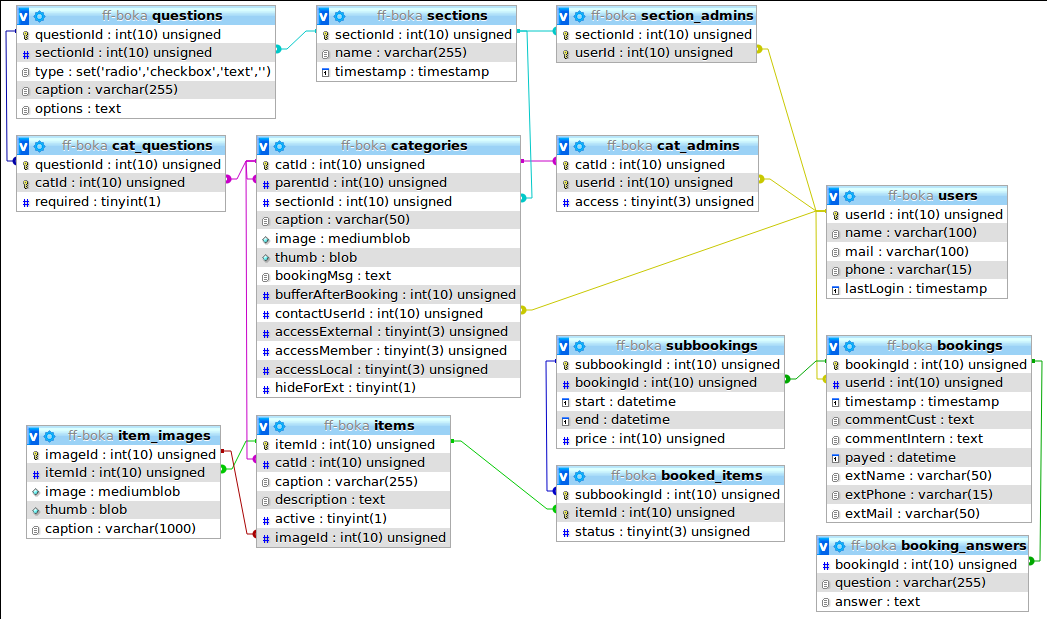
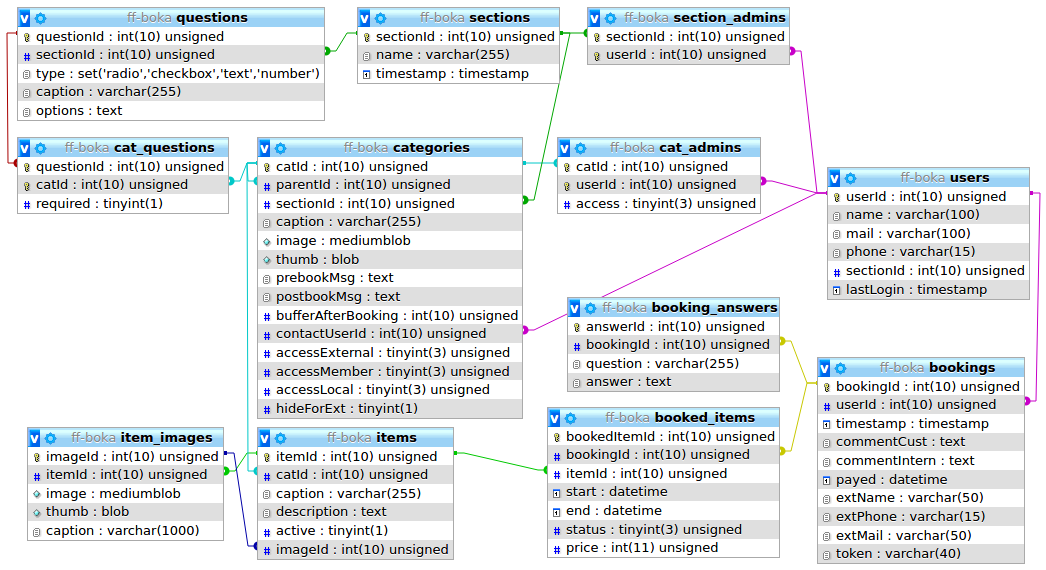
Remove class subbooking, integrate same functionality in bookeditem and booking

diff --git a/inc/ffboka/bookeditem.php b/inc/ffboka/bookeditem.php
@@ -14,9 +14,9 @@ use PDO;
  */
 class BookedItem extends Item {
     /** The ID of the item's booking (not to be confused with the item ID) */
-    public $bookedItemId;
-    /** The ID of the subbooking the item belongs to */
-    public $subbookingId;
+    private $bookedItemId;
+    /** The ID of the booking the item belongs to */
+    private $bookingId;
     
     /**
      * Initialize bookedItem with ID and get some static properties.
@@ -25,11 +25,11 @@ class BookedItem extends Item {
      */
     public function __construct($bookedItemId){
         if ($bookedItemId) { // Try to return an existing item from database
-            $stmt = self::$db->prepare("SELECT bookedItemId, subbookingId, itemId, catId FROM booked_items INNER JOIN items USING (itemId) WHERE bookedItemId=?");
+            $stmt = self::$db->prepare("SELECT bookedItemId, bookingId, itemId, catId FROM booked_items INNER JOIN items USING (itemId) WHERE bookedItemId=?");
             $stmt->execute(array($bookedItemId));
             if ($row = $stmt->fetch(PDO::FETCH_OBJ)) {
                 $this->bookedItemId = $row->bookedItemId;
-                $this->subbookingId = $row->subbookingId;
+                $this->bookingId = $row->bookingId;
                 $this->id = $row->itemId;
                 $this->catId = $row->catId;
             } else {
@@ -41,25 +41,59 @@ class BookedItem extends Item {
     }
 
     /**
+     * Get booking start time of item
+     * @return int Unix timestamp of start time
+     */
+    public function start() {
+        $stmt = self::$db->query("SELECT UNIX_TIMESTAMP(start) start FROM booked_items WHERE bookedItemId={$this->bookedItemId}");
+        $row = $stmt->fetch(PDO::FETCH_OBJ);
+        return $row->start;
+    }
+
+    /**
+     * Set the booking start time of the item
+     * @param int|string $start Start time as Unix timestamp or string
+     * @return int|bool Unix timestamp of start time, or false on failure
+     */
+    public function setStart($start) {
+        if (is_numeric($start)) $stmt = self::$db->prepare("UPDATE booked_items SET start=FROM_UNIXTIME(?) WHERE bookedItemId={$this->bookedItemId}");
+        else $stmt = self::$db->prepare("UPDATE booked_items SET start=? WHERE bookedItemId={$this->bookedItemId}");
+        if ($stmt->execute(array($start))) return $this->start();
+        else return FALSE;
+    }
+    
+    /**
+     * Set the booking end time of the item
+     * @param int|string $end End time as Unix timestamp or string
+     * @return int|bool Unix timestamp of end time, or false on failure
+     */
+    public function setEnd($end) {
+        if (is_numeric($end)) $stmt = self::$db->prepare("UPDATE booked_items SET end=FROM_UNIXTIME(?) WHERE bookedItemId={$this->bookedItemId}");
+        else $stmt = self::$db->prepare("UPDATE booked_items SET end=? WHERE bookedItemId={$this->bookedItemId}");
+        if ($stmt->execute(array($end))) return $this->end();
+        else return FALSE;
+    }
+    
+    /**
+     * Get booking end time of item
+     * @return int Unix timestamp of end time
+     */
+    public function end() {
+        $stmt = self::$db->query("SELECT UNIX_TIMESTAMP(end) end FROM booked_items WHERE bookedItemId={$this->bookedItemId}");
+        $row = $stmt->fetch(PDO::FETCH_OBJ);
+        return $row->end;
+    }
+    
+    /**
      * Get the booking the item belongs to
      * @return \FFBoka\Booking
      */
     public function booking() {
-        $stmt = self::$db->query("SELECT bookingId FROM subbookings WHERE subbookingId={$this->subbookingId}");
-        $row = $stmt->fetch(\PDO::FETCH_OBJ);
-        return new Booking($row->bookingId);
+        return new Booking($this->bookingId);
     }
     
     /**
-     * Get the subbooking the item belongs to
-     * @return \FFBoka\Subbooking
-     */
-    public function subbooking() {
-        return new Subbooking($this->subbookingId);
-    }
-    
-    /**
-     * Remove bookedItem from its subbooking
+     * Remove bookedItem from its booking
      * @throws \Exception
      * @return boolean True on success
      */
@@ -70,7 +104,7 @@ class BookedItem extends Item {
             throw new \Exception("Failed to remove item from subbooking.");
         }
     }
-    
+
     /**
      * Set the booking status of the item
      * @param int $status One of the FFBoka::STATUS_xx constants
@@ -99,7 +133,7 @@ class BookedItem extends Item {
      */
     public function setPrice(int $price) {
         $stmt = self::$db->prepare("UPDATE booked_items SET price=? WHERE bookedItemId={$this->bookedItemId}");
-        if ($stmt->execute(array($status))) return $status;
+        if ($stmt->execute(array($price))) return $price;
         else return FALSE;
     }
     

diff --git a/inc/ffboka/booking.php b/inc/ffboka/booking.php
@@ -9,7 +9,7 @@ use PDO;
 
 /**
  * Class Booking
- * Class containing complete booking, with one or more subbookings.
+ * Class containing complete booking.
  */
 class Booking extends FFBoka {
     
@@ -60,10 +60,10 @@ class Booking extends FFBoka {
                 return $row->$name;
             case "sectionId":
                 // We just follow the path of one item in the booking to get to the section (all belong to same section)
-                $stmt = self::$db->query("SELECT sectionId FROM subbookings INNER JOIN booked_items USING (subbookingId) INNER JOIN items USING (itemId) INNER JOIN categories USING (catId) WHERE bookingId={$this->id}");
+                $stmt = self::$db->query("SELECT sectionId FROM booked_items INNER JOIN items USING (itemId) INNER JOIN categories USING (catId) WHERE bookingId={$this->id}");
                 return $stmt->fetch(\PDO::FETCH_OBJ)->sectionId;
             case "price":
-                $stmt = self::$db->query("SELECT SUM(price) price FROM booked_items INNER JOIN subbookings USING (subbookingId) WHERE bookingId={$this->id} AND NOT price IS NULL");
+                $stmt = self::$db->query("SELECT SUM(price) price FROM booked_items WHERE bookingId={$this->id} AND NOT price IS NULL");
                 $row = $stmt->fetch(PDO::FETCH_OBJ);
                 return is_null($row->price) ? 0 : $row->price;
             default:
@@ -117,36 +117,46 @@ class Booking extends FFBoka {
      */
     public function status() {
         $leastStatus = FFBoka::STATUS_CONFIRMED;
-        foreach ($this->subbookings() as $sub) {
-            foreach ($sub->items() as $item) {
-                $leastStatus = $leastStatus & $item->getStatus();
-            }
+        foreach ($this->items() as $item) {
+            $leastStatus = $leastStatus & $item->getStatus();
         }
         return $leastStatus;
     }
     
     /**
-     * Create a new subbooking
-     * @return \FFBoka\Subbooking
+     * Add an item to the booking.
+     * @param int $itemId ID of the item to add
+     * @return int|bool BookedItemID of added item on success, false on failure
      */
-    public function addSubbooking() {
-        self::$db->exec("INSERT INTO subbookings SET bookingId={$this->id}");
-        return new Subbooking(self::$db->lastInsertId());
+    public function addItem(int $itemId) {
+        $stmt = self::$db->prepare("INSERT INTO booked_items SET bookingId={$this->id}, itemId=?");
+        if ($stmt->execute(array( $itemId ))) return self::$db->lastInsertId();
+        else return FALSE;
     }
 
     /**
-     * Get all subbookings belonging to this booking.
-     * @return \FFBoka\Subbooking[]
+     * Remove an item from the booking
+     * @param int $bookedItemId Booking ID of the item to be removed
+     * @return bool True on success
      */
-    public function subbookings() {
-        $stmt = self::$db->query("SELECT subbookingId FROM subbookings WHERE bookingId={$this->id}");
-        $subs = array();
-        while ($row = $stmt->fetch(\PDO::FETCH_OBJ)) {
-            $subs[] = new Subbooking($row->subbookingId);
-        }
-        return $subs;
+    public function removeItem(int $bookedItemId) {
+        $stmt = self::$db->prepare("DELETE FROM booked_items WHERE bookedItemId=?");
+        return $stmt->execute(array( $bookedItemId ));
     }
     
+    /**
+     * Get all items contained in this booking
+     * @return \FFBoka\BookedItem[]
+     */
+    public function items() {
+        $stmt = self::$db->query("SELECT bookedItemId, status FROM booked_items WHERE bookingId={$this->id}");
+        $items = array();
+        while ($row = $stmt->fetch(\PDO::FETCH_OBJ)) {
+            $items[] = new BookedItem($row->bookedItemId);
+        }
+        return $items;
+    }
+
     /**
      * Add the answer to a booking question to the booking
      * @param string $question The asked question

diff --git a/index.php b/index.php
@@ -129,6 +129,7 @@ if (isset($_REQUEST['message'])) $message = ($message ? "$message<br>" : "") . $
 
 	<img src="resources/liggande-bla.png" style="width:100%; max-width:600px; display:block; margin-left:auto; margin-right:auto;">
 
+	<p class="ui-body ui-body-c">Ombyggnad av koden pågår. Just nu fungerar inte något... Beräknat klart på fredag 3/5. Välkommen åter!</p> 
 	<p class="ui-body ui-body-b">Välkommen till testplattformen för FFs framtida resursbokningssystem! Här kan du följa utvecklingen av projektet och testa. Var inte rädd för att förstöra något, utan försök gärna att utmana funktionerna och hitta svaga punkter!<br>Mer information hittar du på <a style="color:white;" target="_blank" href="https://github.com/d-tamm/ff-boka">GitHub</a></p>
 
 	<?php

diff --git a/book-sum.php b/book-sum.php
@@ -4,8 +4,6 @@ use FFBoka\User;
 use FFBoka\FFBoka;
 use FFBoka\Booking;
 use FFBoka\Question;
-use FFBoka\Subbooking;
-use FFBoka\Category;
 use FFBoka\BookedItem;
 global $cfg;
 
